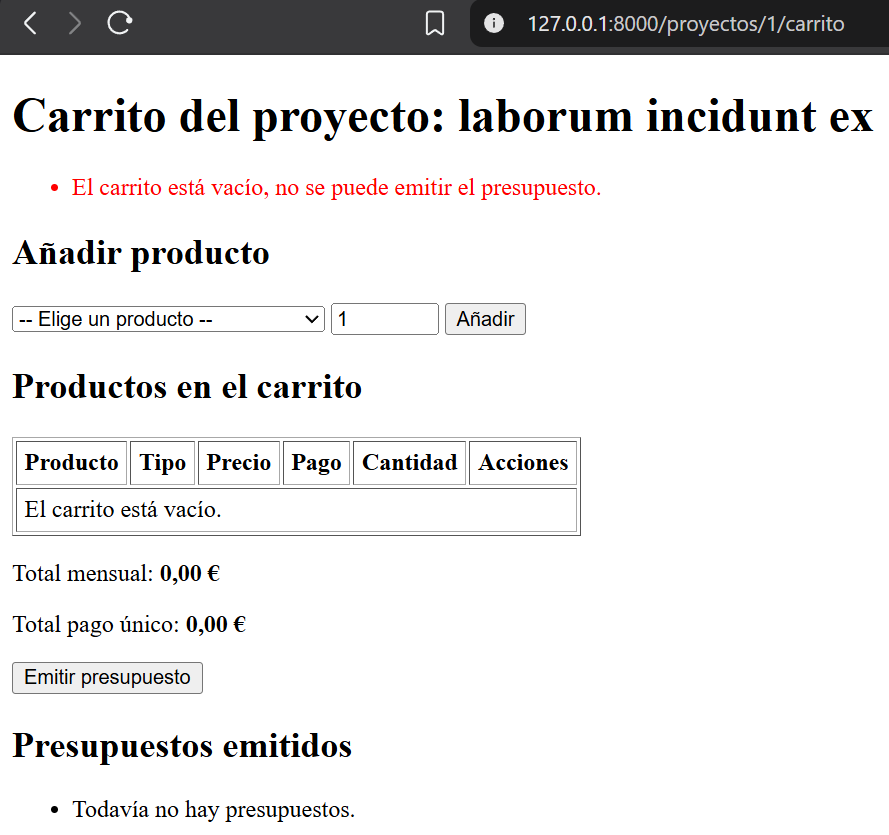
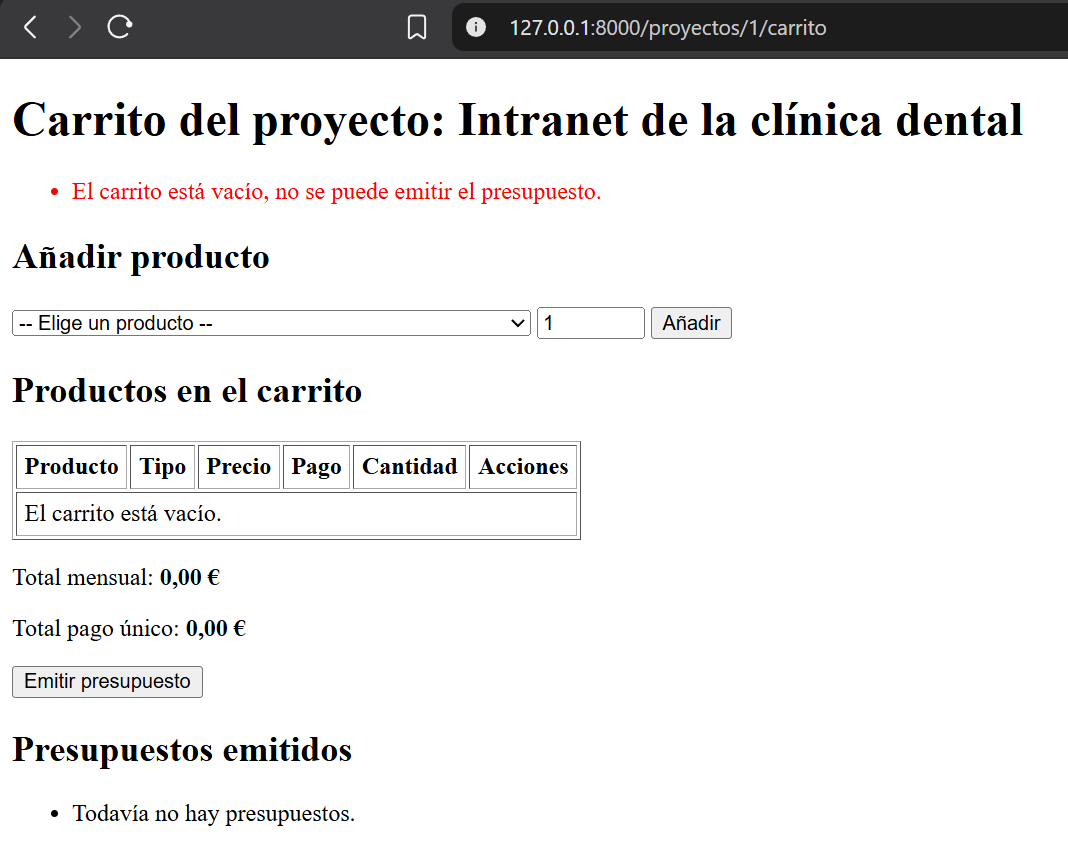
chore: datos de prueba realistas y capturas nuevas

diff --git a/proyecto_laravel/database/factories/ProductoFactory.php b/proyecto_laravel/database/factories/ProductoFactory.php
@@ -8,11 +8,26 @@ class ProductoFactory extends Factory
 {
     public function definition(): array
     {
+        $producto = fake()->unique()->randomElement([
+            ['Servidor virtual pequeño (2 vCPU, 4 GB)', 'computacion', 18.50, 'mensual'],
+            ['Servidor virtual mediano (4 vCPU, 8 GB)', 'computacion', 35.90, 'mensual'],
+            ['Servidor virtual grande (8 vCPU, 16 GB)', 'computacion', 69.00, 'mensual'],
+            ['Almacenamiento SSD 100 GB', 'almacenamiento', 9.80, 'mensual'],
+            ['Almacenamiento de objetos 500 GB', 'almacenamiento', 12.40, 'mensual'],
+            ['Base de datos MySQL gestionada', 'base_datos', 24.90, 'mensual'],
+            ['Base de datos PostgreSQL gestionada', 'base_datos', 27.50, 'mensual'],
+            ['Copia de seguridad diaria', 'backup', 6.75, 'mensual'],
+            ['Certificado SSL y dominio', 'red', 15.00, 'unico'],
+            ['Migración inicial de datos', 'servicio', 49.00, 'unico'],
+            ['Configuración del cortafuegos', 'seguridad', 35.00, 'unico'],
+            ['Balanceador de carga', 'red', 21.30, 'mensual'],
+        ]);
+
         return [
-            'nombre' => 'Servidor ' . fake()->unique()->numberBetween(1, 999),
-            'tipo' => fake()->randomElement(['computacion', 'almacenamiento', 'base_datos']),
-            'precio' => fake()->randomFloat(2, 5, 100),
-            'modalidad' => fake()->randomElement(['mensual', 'unico']),
+            'nombre' => $producto[0],
+            'tipo' => $producto[1],
+            'precio' => $producto[2],
+            'modalidad' => $producto[3],
             'activo' => true,
         ];
     }

diff --git a/proyecto_laravel/database/factories/ProyectoFactory.php b/proyecto_laravel/database/factories/ProyectoFactory.php
@@ -8,10 +8,18 @@ class ProyectoFactory extends Factory
 {
     public function definition(): array
     {
+        $proyecto = fake()->randomElement([
+            ['Web de la academia de idiomas', 'Página web con inscripciones online para unos 200 alumnos.'],
+            ['Tienda online de ropa', 'Tienda con catálogo, carrito y pagos para una tienda pequeña.'],
+            ['App de reservas del restaurante', 'Reservas de mesa desde el móvil y panel para el local.'],
+            ['Intranet de la clínica dental', 'Gestión de citas y fichas de pacientes con datos en Europa.'],
+            ['Blog del club de fútbol', 'Noticias, resultados y galería de fotos del club.'],
+        ]);
+
         return [
-            'nombre' => fake()->words(3, true),
-            'descripcion' => fake()->sentence(),
-            'presupuesto_maximo' => fake()->randomFloat(2, 50, 500),
+            'nombre' => $proyecto[0],
+            'descripcion' => $proyecto[1],
+            'presupuesto_maximo' => fake()->randomElement([100, 150, 200, 300, 500]),
         ];
     }
 }

diff --git a/docs/ut2/memoria-javier.md b/docs/ut2/memoria-javier.md
@@ -27,9 +27,9 @@ Lo hemos hecho mixto: columnas normales para los precios y la cantidad, que son 
 
 **Prueba histórica:**
 
-1. Emitimos el presupuesto #1 con 3 productos. El "Servidor 884" costaba 35,91 € al mes y pusimos 2, así que el subtotal era 71,82 €. Total mensual 158,67 € y pago único 47,19 € (`8.2-presupuesto-emitido.png`).
-2. Con tinker cambiamos el producto a "Servidor 884 PRO" y 99,99 €. En el carrito ya sale con el nombre y precio nuevos (`8.2-catalogo-cambiado.png`).
-3. Volvimos a abrir el presupuesto #1 y sigue saliendo "Servidor 884" a 35,91 € y el total 158,67 € (`8.2-presupuesto-sin-cambios.png`).
+1. Emitimos el presupuesto #1 del proyecto "Intranet de la clínica dental" con 3 productos. El "Almacenamiento de objetos 500 GB" costaba 12,40 € al mes y pusimos 2, así que el subtotal era 24,80 €. Total mensual 31,55 € y pago único 15,00 € del certificado SSL (`8.2-presupuesto-emitido.png`).
+2. Con tinker cambiamos el producto a "Almacenamiento de objetos 1 TB" y 19,90 €. En el carrito ya sale con el nombre y precio nuevos (`8.2-catalogo-cambiado.png`).
+3. Volvimos a abrir el presupuesto #1 y sigue saliendo "Almacenamiento de objetos 500 GB" a 12,40 € y el total 31,55 € (`8.2-presupuesto-sin-cambios.png`).
 
 Esto mismo es lo que comprueba el test T09.
 
@@ -74,7 +74,7 @@ También hay 4 tests del carrito en `CarritoTest.php`. Captura de los tests pasa
 | Cantidad/configuración fuera de rango | Con cantidad 0 o más de 100 no se añade. | Sale "La cantidad mínima es 1." y no se guarda. Test `test_rechaza_una_cantidad_fuera_de_rango`. |
 | Carrito vacío | No se emite el presupuesto. | Sale "El carrito está vacío, no se puede emitir el presupuesto." y no aparece ningún presupuesto. `9.2-carrito-vacio.png` |
 | Fichero rechazado | Un archivo que no es PDF, PNG o JPG no se sube. | Sale "Solo se permiten archivos PDF, PNG o JPG." y no sale en la lista. `9.2-fichero-rechazado-y-subida-correcta.png` |
-| Tarifa modificada tras emitir presupuesto | El presupuesto no cambia. | El presupuesto #1 sigue a 35,91 € aunque el producto ahora cuesta 99,99 €. `8.2-catalogo-cambiado.png` y `8.2-presupuesto-sin-cambios.png` |
+| Tarifa modificada tras emitir presupuesto | El presupuesto no cambia. | El presupuesto #1 sigue a 12,40 € aunque el producto ahora cuesta 19,90 €. `8.2-catalogo-cambiado.png` y `8.2-presupuesto-sin-cambios.png` |
 
 ## 9.3. Investigación real de un fallo
 
